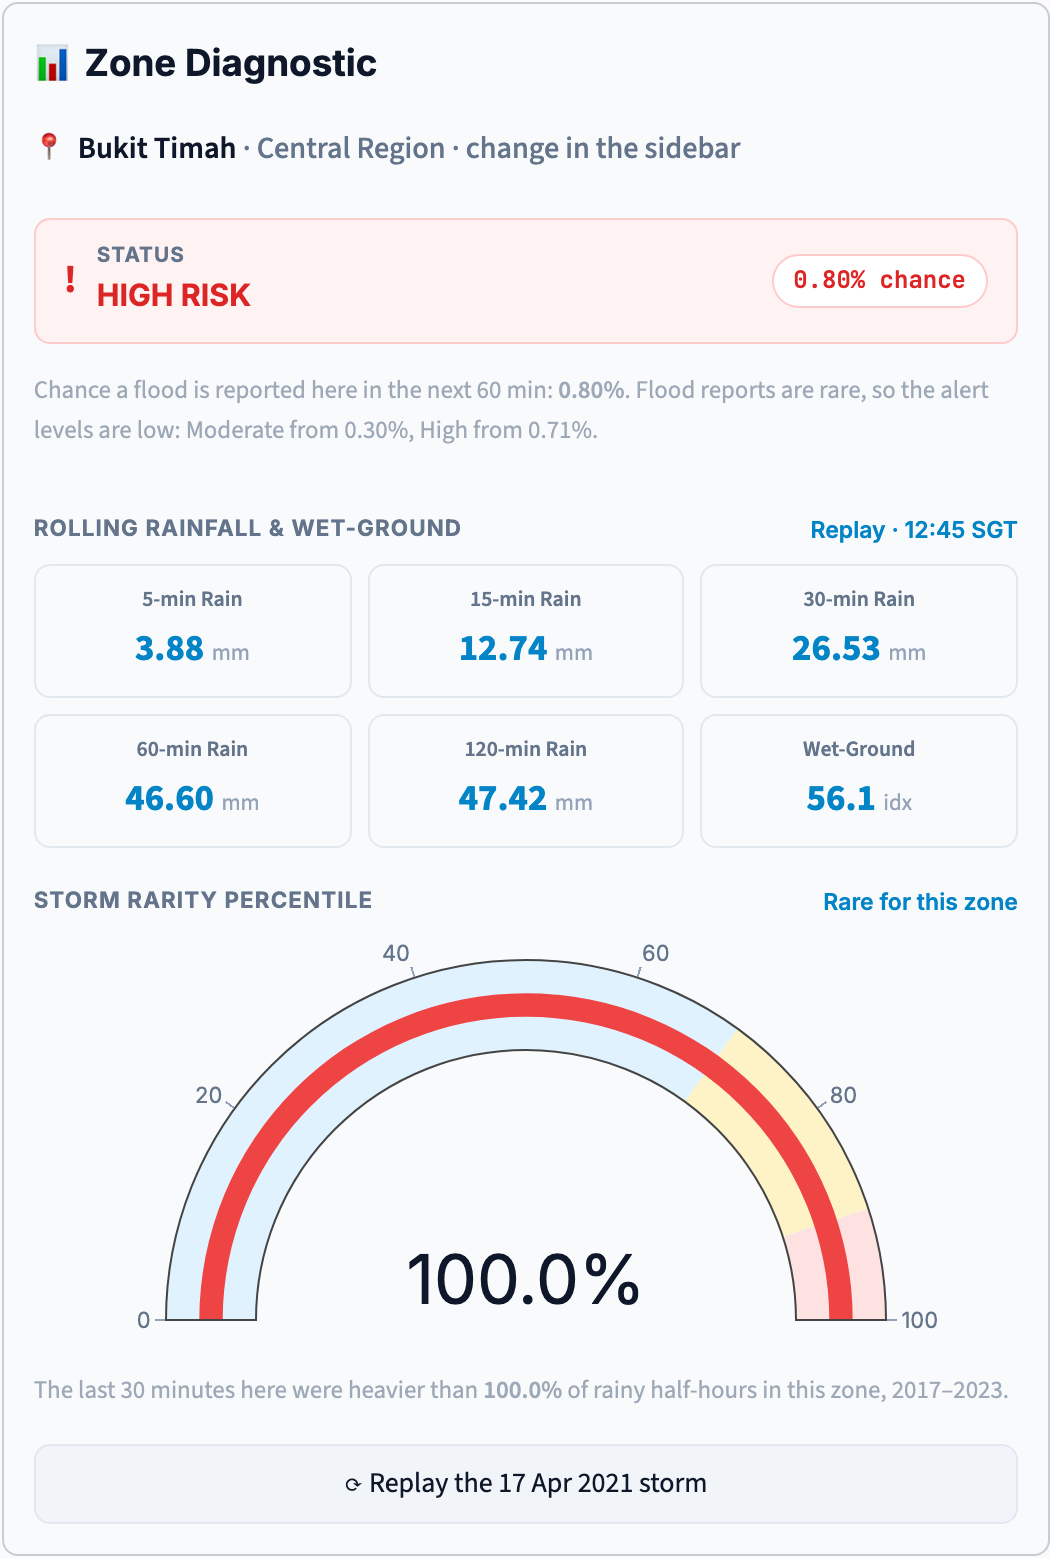
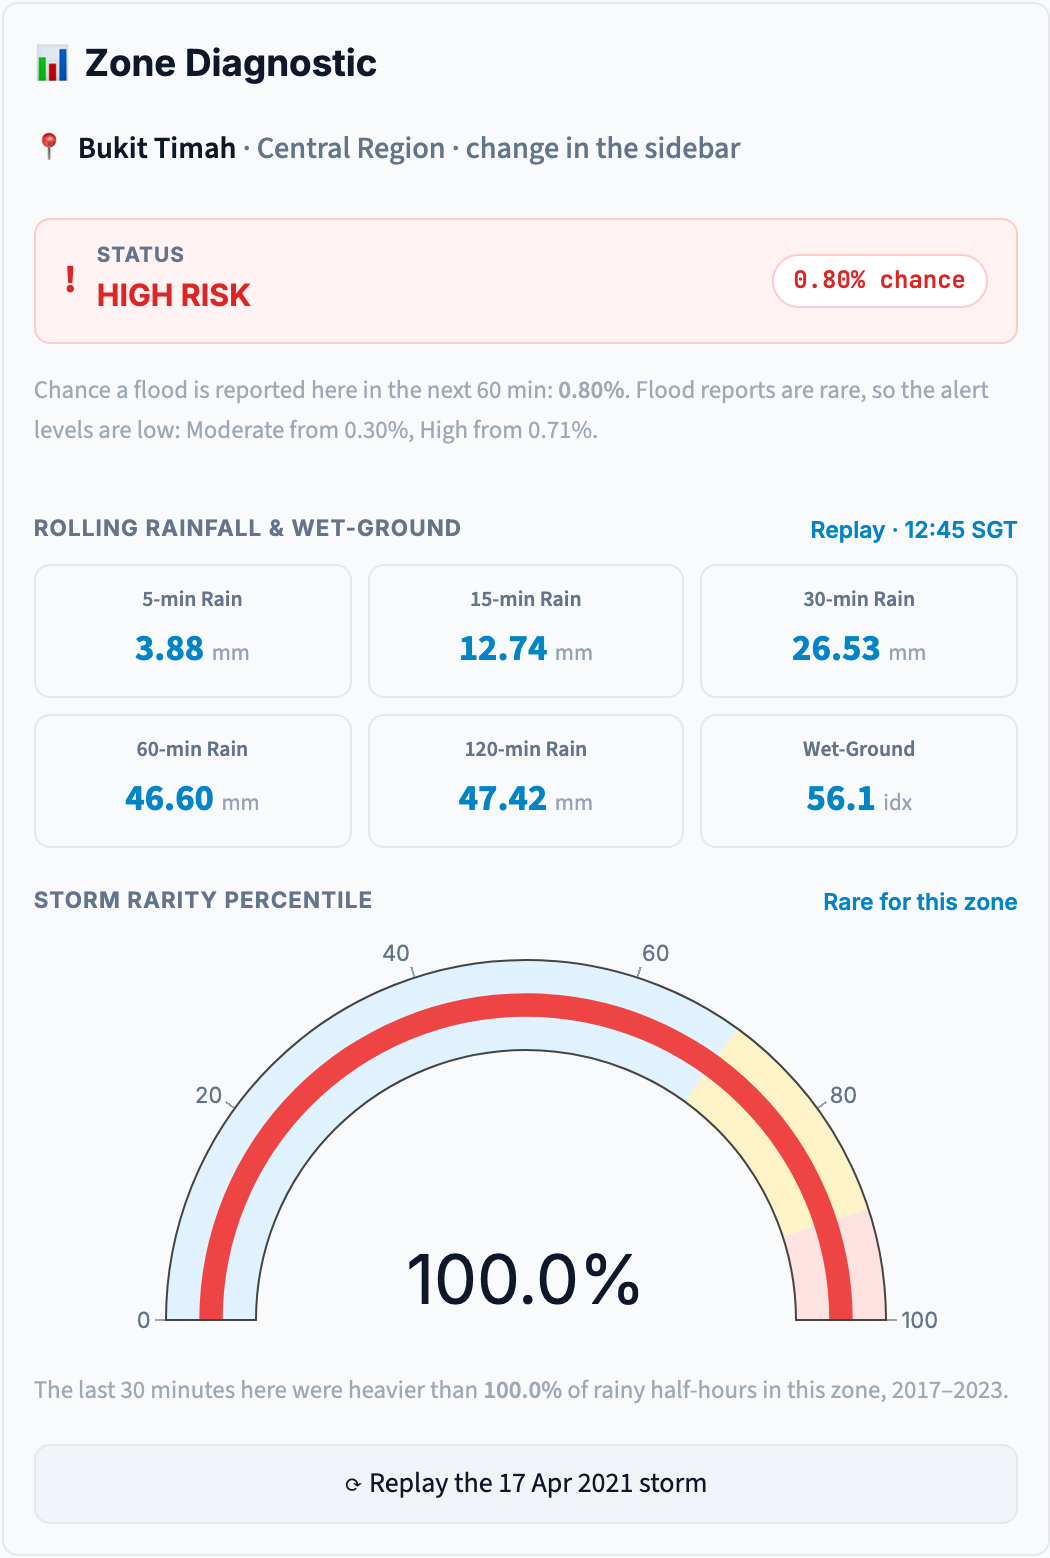
fix(ui): visible card borders in dark mode; theme toggle scrolls with the page
Bordered containers took their border from the light theme's text colour, which vanished on the
dark canvas; they now use the theme's border colour (a little brighter in dark mode). The toggle
is anchored to the top of the page rather than the screen, so it stays put at the top when
scrolling. Screenshots retaken.

Changed region(s): [[0.9752, 0.9859, 1.0, 1.0], [0.0, 0.9859, 0.0305, 1.0]]

diff --git a/src/floodsense/app/streamlit_app.py b/src/floodsense/app/streamlit_app.py
@@ -63,7 +63,7 @@ THEME_TOKENS = {
         "bg_surface": "#111827",
         "bg_subtle": "#1A2234",
         "bg_hover": "#222D42",
-        "border_main": "#1F293D",
+        "border_main": "#2A3650",
         "border_subtle": "#162032",
         "text_main": "#F8FAFC",
         "text_muted": "#94A3B8",
@@ -251,6 +251,12 @@ div[data-testid="stSidebarCollapsedControl"],
     color: var(--text-main) !important;
 }}
 
+/* Bordered containers (cards, panels): Streamlit draws their border from the light theme's
+   text colour, which disappears on the dark canvas, so use the theme's own border colour. */
+[data-testid="stMain"] [data-testid="stVerticalBlock"] {{
+    border-color: var(--border-main) !important;
+}}
+
 /* Page container */
 .block-container {{
     padding-top: 0.4rem !important;
@@ -422,8 +428,12 @@ button[kind="secondary"]:hover,
 }}
 
 /* --- 5.1 TOP-RIGHT THEME TOGGLE SWITCH --- */
+/* Anchored to the top of the page (not the screen), so it scrolls away with the content */
+[data-testid="stMain"] {{
+    position: relative !important;
+}}
 .st-key-theme_toggle {{
-    position: fixed !important;
+    position: absolute !important;
     top: 0.7rem !important;
     right: 1.25rem !important;
     width: auto !important;
